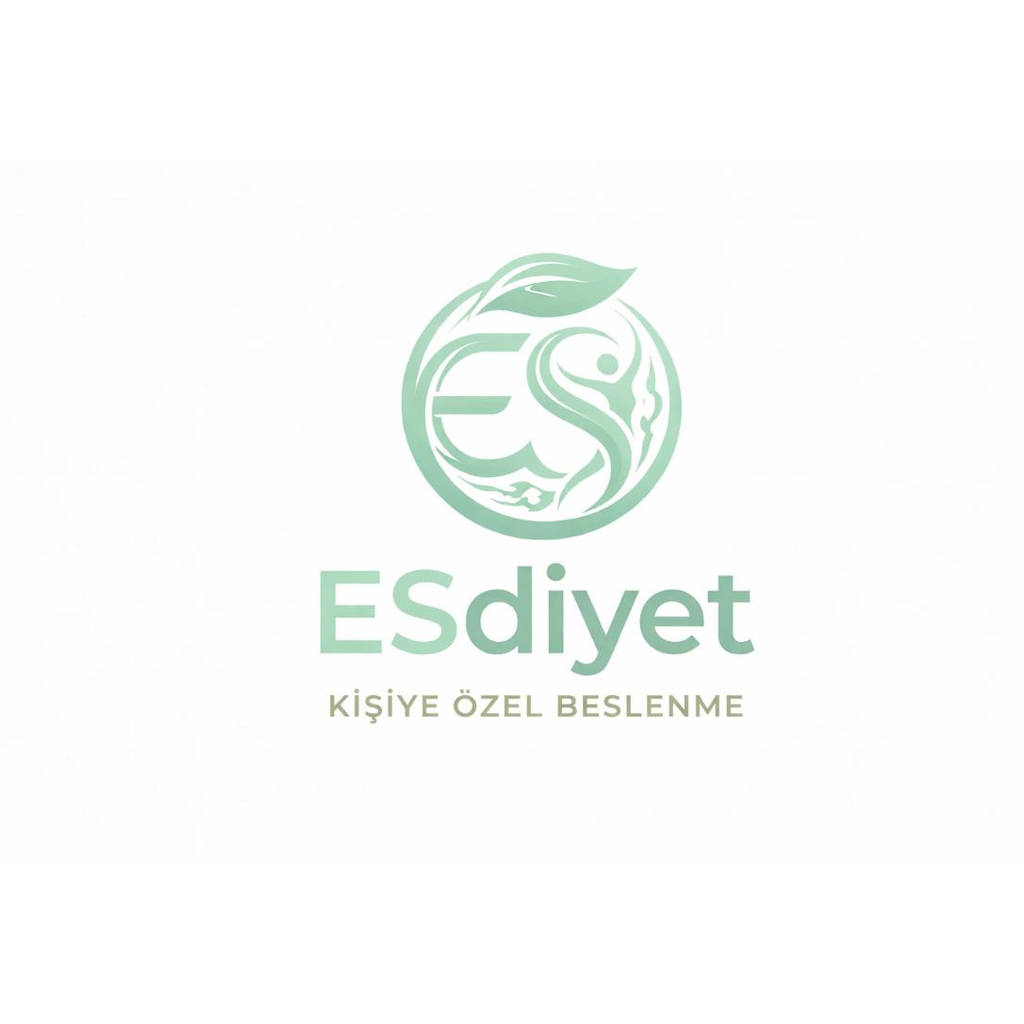
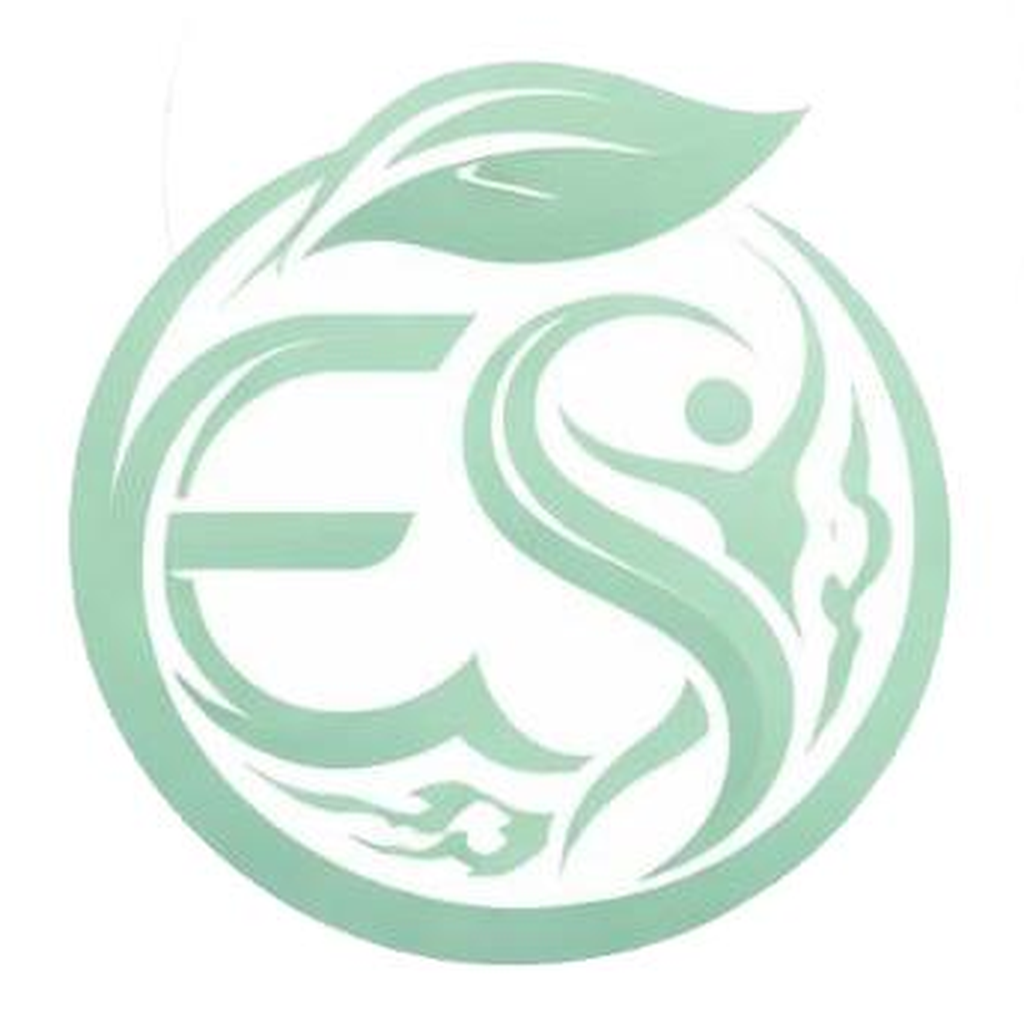
Fix

diff --git a/src/constants/theme.js b/src/constants/theme.js
@@ -1,51 +1,51 @@
 // ESdiyet - Modern Renk Paleti ve Tema Sabitleri
 export const COLORS = {
-  // Ana renkler - Beyaz ve yeşil tonları (Modern Palette)
-  primary: '#10B981',      // Modern Emerald Green
-  primaryLight: '#34D399', // Light Emerald
-  primaryDark: '#059669',  // Dark Emerald
+  // Ana renkler — Sage Viridian (2025 Premium Wellness Palette)
+  primary: '#0BBF7B',       // Vibrant Sage Green
+  primaryLight: '#2DD694',  // Fresh Bright Green
+  primaryDark: '#089660',   // Rich Deep Green
 
-  secondary: '#6EE7B7',    // Mint Green
-  accent: '#A7F3D0',       // Light Mint
-  accentDark: '#047857',   // Deep Green
+  secondary: '#73E8BC',     // Soft Mint
+  accent: '#E6FBF3',        // Ultra-light mint surface
+  accentDark: '#065C3A',    // Deep Anchor Green
 
   // Gradient renkleri
-  gradientStart: '#10B981',
-  gradientMiddle: '#34D399',
-  gradientEnd: '#6EE7B7',
+  gradientStart: '#0BBF7B',
+  gradientMiddle: '#2DD694',
+  gradientEnd: '#73E8BC',
 
-  // Arkaplan ve yüzeyler
-  background: '#F9FAFB',   // Subtle Gray Background
-  backgroundLight: '#FFFFFF', // Pure White
-  surface: '#FFFFFF',      // White Surface
-  surfaceAlt: '#F3F4F6',   // Alternative Surface
-  card: '#FFFFFF',         // Card Background
+  // Arkaplan ve yüzeyler — sıcak yeşil-tinted white
+  background: '#F4FBF7',    // Warm White (subtle green tint)
+  backgroundLight: '#FFFFFF',
+  surface: '#FFFFFF',
+  surfaceAlt: '#EDF7F1',    // Soft green-tinted alt surface
+  card: '#FFFFFF',
 
-  // Metin renkleri
-  text: '#111827',         // Almost Black
-  textSecondary: '#6B7280',// Gray
-  textLight: '#9CA3AF',    // Light Gray
-  textOnPrimary: '#FFFFFF',// White on colored bg
+  // Metin renkleri — yeşil-tinted, daha sıcak
+  text: '#0C1F16',          // Deep Green-Black
+  textSecondary: '#4A6959', // Muted Green-Gray
+  textLight: '#8AABA0',     // Soft Green-Gray
+  textOnPrimary: '#FFFFFF',
 
   // Durum renkleri
-  success: '#10B981',      // Success Green
-  warning: '#F59E0B',      // Amber Warning
-  error: '#EF4444',        // Red Error
-  info: '#3B82F6',         // Blue Info
+  success: '#0BBF7B',
+  warning: '#F59E0B',
+  error: '#EF4444',
+  info: '#3B82F6',
 
   // Çizgiler ve kenarlıklar
-  border: '#E5E7EB',       // Light Border
-  borderLight: '#F3F4F6',  // Very Light Border
-  divider: '#F3F4F6',      // Divider
+  border: '#D4EDE3',        // Soft green-tinted border
+  borderLight: '#EDF7F1',
+  divider: '#EDF7F1',
 
   // Şeffaflık
-  overlay: 'rgba(0, 0, 0, 0.4)',
-  overlayLight: 'rgba(0, 0, 0, 0.2)',
-  shadowColor: '#000000',
+  overlay: 'rgba(6, 25, 16, 0.45)',
+  overlayLight: 'rgba(6, 25, 16, 0.15)',
+  shadowColor: '#0BBF7B',
 
   // Özel renkler
-  shimmer: '#E5E7EB',
-  highlight: '#ECFDF5',    // Light green highlight
+  shimmer: '#D4EDE3',
+  highlight: '#E6FBF3',     // Mint highlight
 };
 
 export const SIZES = {
@@ -107,43 +107,31 @@ export const SHADOWS = {
     elevation: 0,
   },
   small: {
-    shadowColor: COLORS.shadowColor,
-    shadowOffset: {
-      width: 0,
-      height: 2,
-    },
-    shadowOpacity: 0.08,
-    shadowRadius: 4,
+    shadowColor: '#0BBF7B',
+    shadowOffset: { width: 0, height: 2 },
+    shadowOpacity: 0.10,
+    shadowRadius: 6,
     elevation: 2,
   },
   medium: {
-    shadowColor: COLORS.shadowColor,
-    shadowOffset: {
-      width: 0,
-      height: 4,
-    },
-    shadowOpacity: 0.12,
-    shadowRadius: 8,
+    shadowColor: '#0BBF7B',
+    shadowOffset: { width: 0, height: 4 },
+    shadowOpacity: 0.14,
+    shadowRadius: 12,
     elevation: 4,
   },
   large: {
-    shadowColor: COLORS.shadowColor,
-    shadowOffset: {
-      width: 0,
-      height: 8,
-    },
-    shadowOpacity: 0.15,
-    shadowRadius: 16,
+    shadowColor: '#0BBF7B',
+    shadowOffset: { width: 0, height: 8 },
+    shadowOpacity: 0.18,
+    shadowRadius: 20,
     elevation: 8,
   },
   xl: {
-    shadowColor: COLORS.shadowColor,
-    shadowOffset: {
-      width: 0,
-      height: 12,
-    },
-    shadowOpacity: 0.2,
-    shadowRadius: 24,
+    shadowColor: '#0BBF7B',
+    shadowOffset: { width: 0, height: 12 },
+    shadowOpacity: 0.22,
+    shadowRadius: 28,
     elevation: 12,
   },
 };

diff --git a/src/screens/LoginScreen.js b/src/screens/LoginScreen.js
@@ -10,6 +10,7 @@ import {
   ScrollView,
   Alert,
   ActivityIndicator,
+  Image,
 } from "react-native";
 import { LinearGradient } from "expo-linear-gradient";
 import { Ionicons } from "@expo/vector-icons";
@@ -94,7 +95,11 @@ export default function LoginScreen({ navigation }) {
         >
           <View style={styles.logoContainer}>
             <View style={styles.logoBadge}>
-              <Ionicons name="leaf" size={48} color={COLORS.textOnPrimary} />
+              <Image
+                source={require("../../assets/icon.png")}
+                style={styles.logoImage}
+                resizeMode="contain"
+              />
             </View>
             <Text style={styles.appTitle}>ESdiyet</Text>
             <Text style={styles.appSubtitle}>Sağlıklı Yaşam Asistanınız</Text>
@@ -229,13 +234,18 @@ const styles = StyleSheet.create({
     alignItems: "center",
   },
   logoBadge: {
-    width: 96,
-    height: 96,
-    borderRadius: 48,
-    backgroundColor: "rgba(255, 255, 255, 0.2)",
+    width: 130,
+    height: 130,
+    borderRadius: 65,
+    backgroundColor: "rgba(255, 255, 255, 0.95)",
     justifyContent: "center",
     alignItems: "center",
     marginBottom: SIZES.lg,
+    overflow: "hidden",
+  },
+  logoImage: {
+    width: 130,
+    height: 130,
   },
   appTitle: {
     fontSize: 32,
